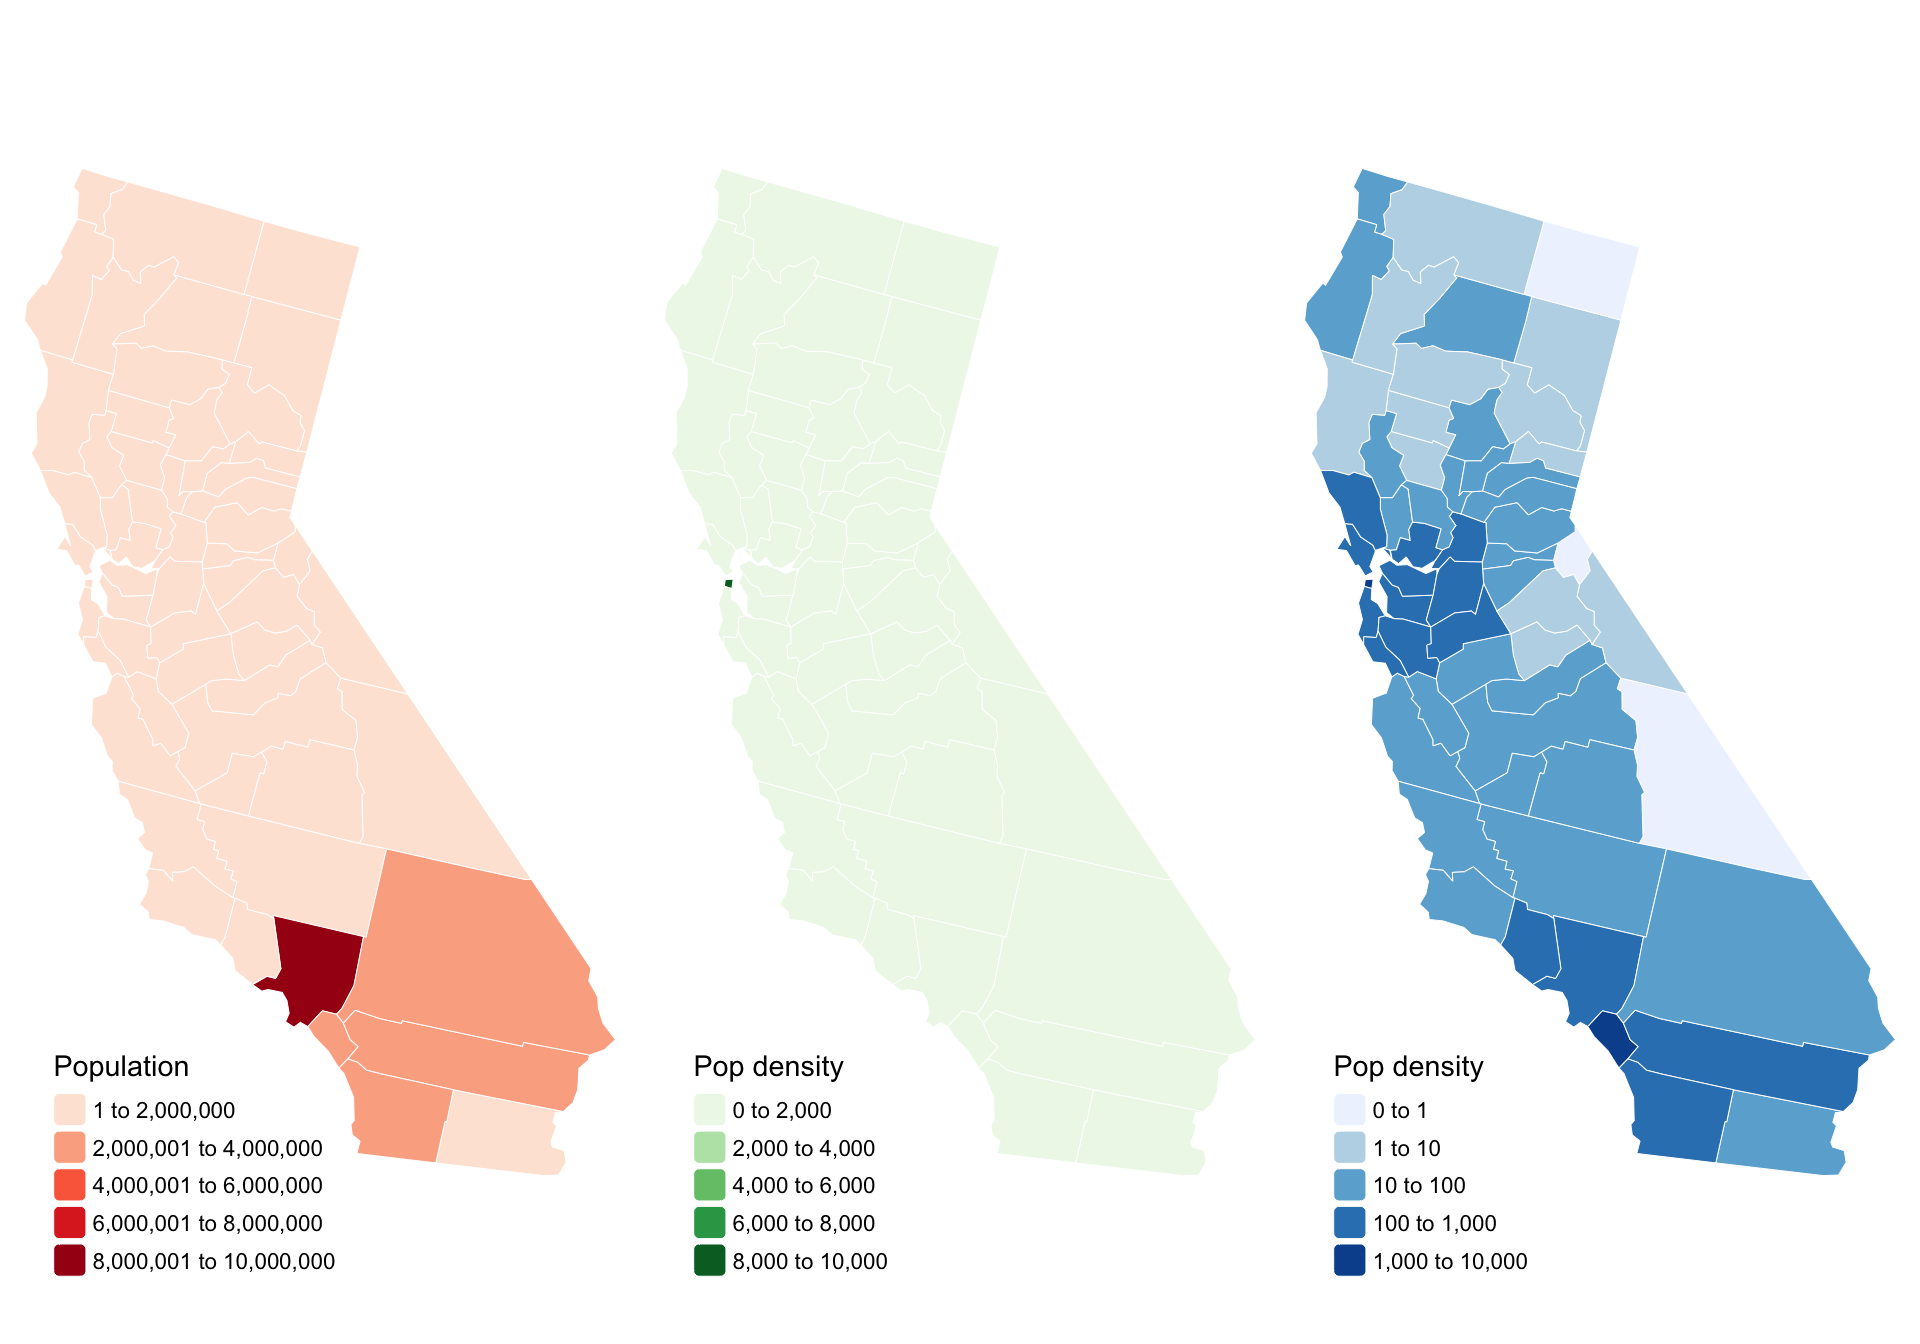
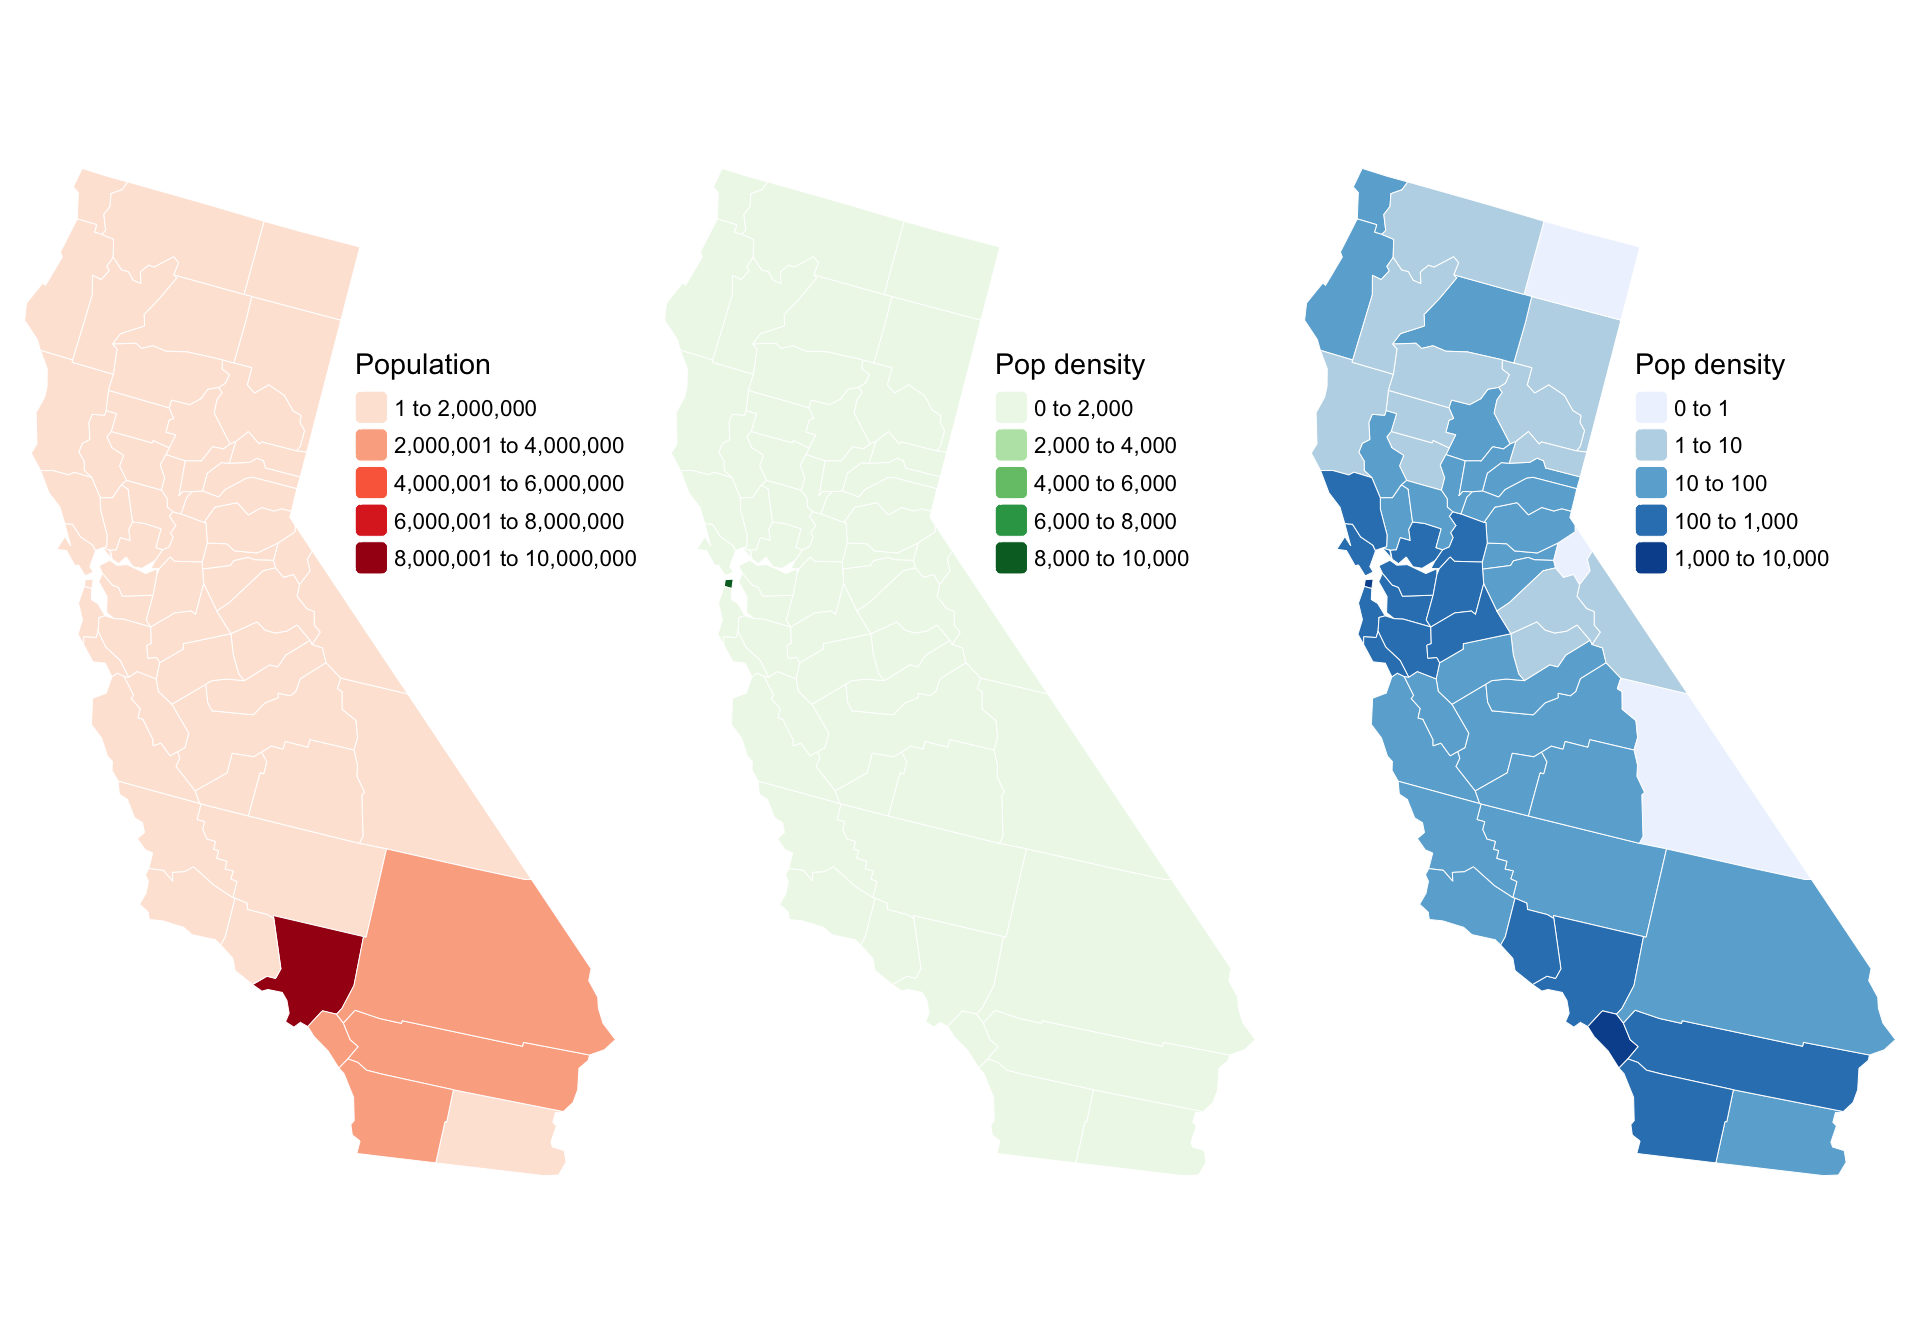
reposition legends in CA pop choropleths

diff --git a/docs/chapters/chap5/fig5-05-ca-pop-maps.html b/docs/chapters/chap5/fig5-05-ca-pop-maps.html
@@ -246,7 +246,7 @@ pre > code.sourceCode > span > a:first-child::before { text-decoration: underlin
 <span id="cb2-4"><a href="#cb2-4" aria-hidden="true" tabindex="-1"></a>    <span class="at">fill.scale =</span> <span class="fu">tm_scale_intervals</span>(<span class="at">values =</span> <span class="st">"brewer.reds"</span>, </span>
 <span id="cb2-5"><a href="#cb2-5" aria-hidden="true" tabindex="-1"></a>                                    <span class="at">style =</span> <span class="st">"pretty"</span>),</span>
 <span id="cb2-6"><a href="#cb2-6" aria-hidden="true" tabindex="-1"></a>    <span class="at">fill.legend =</span> <span class="fu">tm_legend</span>(<span class="at">title =</span> <span class="st">"Population"</span>, </span>
-<span id="cb2-7"><a href="#cb2-7" aria-hidden="true" tabindex="-1"></a>                            <span class="at">position =</span> <span class="fu">c</span>(<span class="st">"left"</span>, <span class="st">"bottom"</span>))) <span class="sc">+</span> </span>
+<span id="cb2-7"><a href="#cb2-7" aria-hidden="true" tabindex="-1"></a>                            <span class="at">position =</span> <span class="fu">c</span>(<span class="fl">0.54</span>, <span class="fl">0.76</span>))) <span class="sc">+</span> </span>
 <span id="cb2-8"><a href="#cb2-8" aria-hidden="true" tabindex="-1"></a>  <span class="fu">tm_layout</span>(<span class="at">frame =</span> <span class="cn">FALSE</span>, <span class="at">legend.frame =</span> <span class="cn">FALSE</span>)</span>
 <span id="cb2-9"><a href="#cb2-9" aria-hidden="true" tabindex="-1"></a>  </span>
 <span id="cb2-10"><a href="#cb2-10" aria-hidden="true" tabindex="-1"></a>m2 <span class="ot">&lt;-</span> <span class="fu">tm_shape</span>(ca) <span class="sc">+</span> </span>
@@ -255,7 +255,7 @@ pre > code.sourceCode > span > a:first-child::before { text-decoration: underlin
 <span id="cb2-13"><a href="#cb2-13" aria-hidden="true" tabindex="-1"></a>    <span class="at">fill.scale =</span> <span class="fu">tm_scale_intervals</span>(<span class="at">values =</span> <span class="st">"brewer.greens"</span>,</span>
 <span id="cb2-14"><a href="#cb2-14" aria-hidden="true" tabindex="-1"></a>                                    <span class="at">style =</span> <span class="st">"pretty"</span>),</span>
 <span id="cb2-15"><a href="#cb2-15" aria-hidden="true" tabindex="-1"></a>    <span class="at">fill.legend =</span> <span class="fu">tm_legend</span>(<span class="at">title =</span> <span class="st">"Pop density"</span>, </span>
-<span id="cb2-16"><a href="#cb2-16" aria-hidden="true" tabindex="-1"></a>                            <span class="at">position =</span> <span class="fu">c</span>(<span class="st">"left"</span>, <span class="st">"bottom"</span>))) <span class="sc">+</span></span>
+<span id="cb2-16"><a href="#cb2-16" aria-hidden="true" tabindex="-1"></a>                            <span class="at">position =</span> <span class="fu">c</span>(<span class="fl">0.54</span>, <span class="fl">0.76</span>))) <span class="sc">+</span> </span>
 <span id="cb2-17"><a href="#cb2-17" aria-hidden="true" tabindex="-1"></a>  <span class="fu">tm_layout</span>(<span class="at">frame =</span> <span class="cn">FALSE</span>, <span class="at">legend.frame =</span> <span class="cn">FALSE</span>)</span>
 <span id="cb2-18"><a href="#cb2-18" aria-hidden="true" tabindex="-1"></a></span>
 <span id="cb2-19"><a href="#cb2-19" aria-hidden="true" tabindex="-1"></a>m3 <span class="ot">&lt;-</span> <span class="fu">tm_shape</span>(ca) <span class="sc">+</span> </span>
@@ -264,7 +264,7 @@ pre > code.sourceCode > span > a:first-child::before { text-decoration: underlin
 <span id="cb2-22"><a href="#cb2-22" aria-hidden="true" tabindex="-1"></a>    <span class="at">fill.scale =</span> <span class="fu">tm_scale_intervals</span>(<span class="at">values =</span> <span class="st">"brewer.blues"</span>, </span>
 <span id="cb2-23"><a href="#cb2-23" aria-hidden="true" tabindex="-1"></a>                                    <span class="at">style =</span> <span class="st">"log10_pretty"</span>),</span>
 <span id="cb2-24"><a href="#cb2-24" aria-hidden="true" tabindex="-1"></a>    <span class="at">fill.legend =</span> <span class="fu">tm_legend</span>(<span class="at">title =</span> <span class="st">"Pop density"</span>, </span>
-<span id="cb2-25"><a href="#cb2-25" aria-hidden="true" tabindex="-1"></a>                            <span class="at">position =</span> <span class="fu">c</span>(<span class="st">"left"</span>, <span class="st">"bottom"</span>))) <span class="sc">+</span> </span>
+<span id="cb2-25"><a href="#cb2-25" aria-hidden="true" tabindex="-1"></a>                            <span class="at">position =</span> <span class="fu">c</span>(<span class="fl">0.54</span>, <span class="fl">0.76</span>))) <span class="sc">+</span> </span>
 <span id="cb2-26"><a href="#cb2-26" aria-hidden="true" tabindex="-1"></a>  <span class="fu">tm_layout</span>(<span class="at">frame =</span> <span class="cn">FALSE</span>, <span class="at">legend.frame =</span> <span class="cn">FALSE</span>)</span>
 <span id="cb2-27"><a href="#cb2-27" aria-hidden="true" tabindex="-1"></a>  </span>
 <span id="cb2-28"><a href="#cb2-28" aria-hidden="true" tabindex="-1"></a><span class="fu">tmap_arrange</span>(m1, m2, m3)</span></code><button title="Copy to Clipboard" class="code-copy-button"><i class="bi"></i></button></pre></div>
@@ -718,7 +718,7 @@ window.document.addEventListener("DOMContentLoaded", function (event) {
 });
 </script>
 </div> <!-- /content -->
-<script>var lightboxQuarto = GLightbox({"openEffect":"zoom","closeEffect":"zoom","selector":".lightbox","loop":false,"descPosition":"bottom"});
+<script>var lightboxQuarto = GLightbox({"selector":".lightbox","descPosition":"bottom","closeEffect":"zoom","loop":false,"openEffect":"zoom"});
 window.onload = () => {
   lightboxQuarto.on('slide_before_load', (data) => {
     const { slideIndex, slideNode, slideConfig, player, trigger } = data;

diff --git a/docs/index-listing.html b/docs/index-listing.html
@@ -402,7 +402,7 @@ window.Quarto = {
 <a href="./chapters/chap5/fig5-01-9-intersection.html" class="title listing-title">Figure 5.1 The 9-intersection model of topological relations</a>
 </td>
 </tr>
-<tr data-index="26" data-categories="figures,code,R" data-listing-file-modified-sort="1731710843020" data-listing-reading-time-sort="3" data-listing-word-count-sort="596" data-listing-title-sort="Figure 5.5 Maps of areas with widely varying populations" data-listing-filename-sort="fig5-05-ca-pop-maps.qmd">
+<tr data-index="26" data-categories="figures,code,R" data-listing-file-modified-sort="1731728353297" data-listing-reading-time-sort="3" data-listing-word-count-sort="597" data-listing-title-sort="Figure 5.5 Maps of areas with widely varying populations" data-listing-filename-sort="fig5-05-ca-pop-maps.qmd">
 <td>
 <a href="./chapters/chap5/fig5-05-ca-pop-maps.html" class="title listing-title">Figure 5.5 Maps of areas with widely varying populations</a>
 </td>

diff --git a/docs/chapters/chap5/index.html b/docs/chapters/chap5/index.html
@@ -306,7 +306,7 @@ This page attempts to show the various spatial predicates of the 9-intersection 
 </div>
 </a>
 </div>
-<div class="g-col-1" data-index="2" data-categories="figures,code,R" data-listing-file-modified-sort="1731710843020" data-listing-reading-time-sort="3" data-listing-word-count-sort="596">
+<div class="g-col-1" data-index="2" data-categories="figures,code,R" data-listing-file-modified-sort="1731728353297" data-listing-reading-time-sort="3" data-listing-word-count-sort="597">
 <a href="../../chapters/chap5/fig5-05-ca-pop-maps.html" class="quarto-grid-link">
 <div class="quarto-grid-item card h-100 card-left">
 <p class="card-img-top"><img src="fig5-05-ca-pop-maps_files/figure-html/unnamed-chunk-2-1.png" style="height: 150px;"  class="thumbnail-image card-img"/></p>
